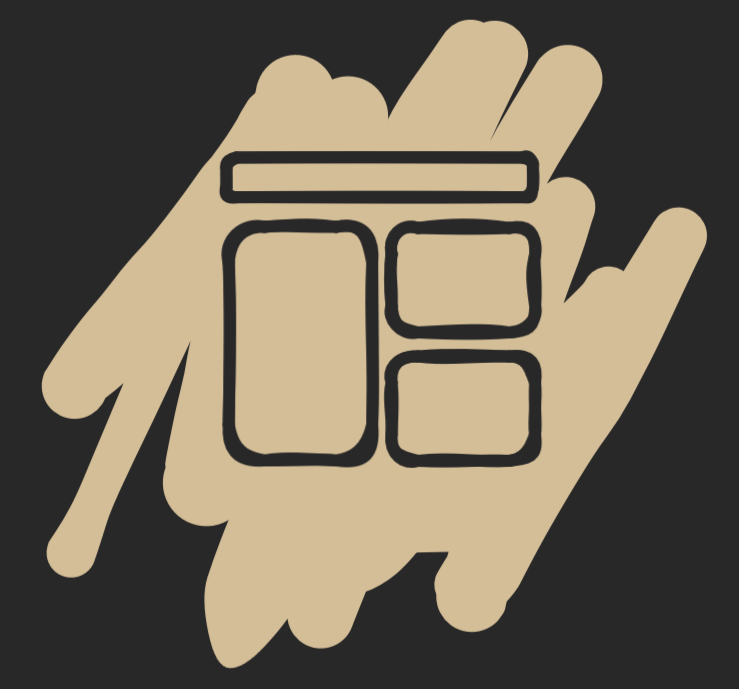
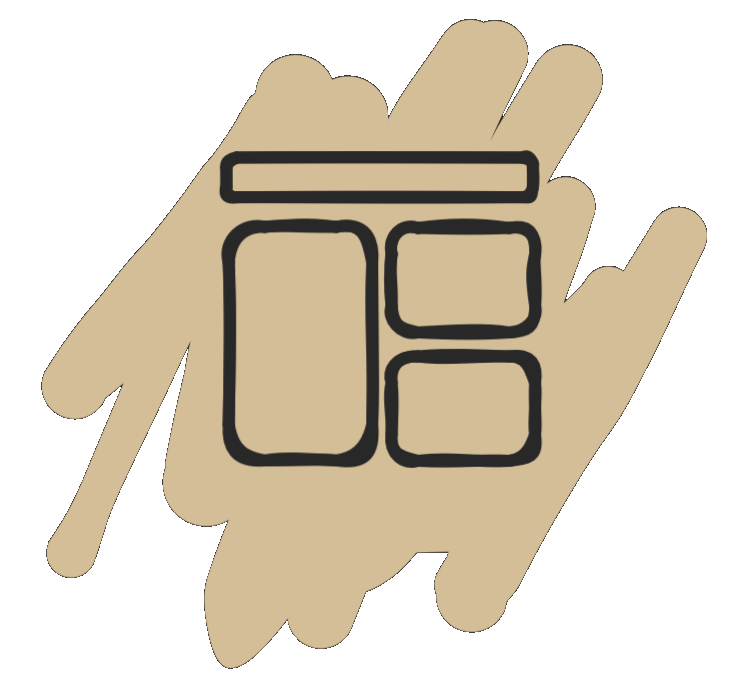
Use the Ochre palette across the whole site
Drop the Gruvbox theme so the homepage and blog match the CV. Links and blog
headings use foot's magenta, code highlighting uses foot's ANSI colours, and
the tiling WM post image gets a transparent background instead of Gruvbox's
dark grey. Fonts are unchanged.

diff --git a/src/styles/prism.css b/src/styles/prism.css
@@ -1,46 +1,47 @@
 /*
- * Gruvbox colours for code blocks. Prism (the syntax highlighter) wraps each
- * piece of code in a <span class="token keyword">, <span class="token string">,
- * etc.; these rules colour them.
+ * Code block colours, from the ANSI colours of the Ochre palette in
+ * ~/.config/foot/foot.ini. Prism (the syntax highlighter) wraps each piece of
+ * code in a <span class="token keyword">, <span class="token string">, etc.;
+ * these rules colour them.
  */
 .token.comment,
 .token.prolog,
 .token.doctype,
 .token.cdata {
-  color: #928374;
+  color: #8a6a3e; /* bright0 */
   font-style: italic;
 }
 
 .token.keyword,
-.token.operator,
-.token.important {
-  color: #fe8019;
+.token.important,
+.token.tag,
+.token.selector {
+  color: #a3243a; /* regular1, red */
+}
+
+.token.operator {
+  color: #6b3a10; /* bright3 */
 }
 
 .token.string,
 .token.char,
 .token.attr-value {
-  color: #b8bb26;
+  color: #3f6a2a; /* regular2, green */
 }
 
 .token.number,
 .token.boolean,
 .token.constant {
-  color: #d3869b;
+  color: #7a2d5c; /* regular5, magenta */
 }
 
 .token.function,
 .token.builtin,
 .token.class-name {
-  color: #fabd2f;
+  color: #2b4f7a; /* regular4, blue */
 }
 
 .token.variable,
 .token.parameter {
-  color: #83a598;
-}
-
-.token.tag,
-.token.selector {
-  color: #fb4934;
+  color: #2f6560; /* regular6, cyan */
 }

diff --git a/src/styles/global.css b/src/styles/global.css
@@ -4,32 +4,19 @@
  */
 
 /*
- * Colour themes. Every colour on the site comes from these variables, so
- * changing a palette means editing one block. The Base layout puts
- * data-theme="..." on <html>, which picks the block that applies.
+ * Colours: the "Ochre" palette from ~/.config/foot/foot.ini. Every colour on
+ * the site comes from these variables, so changing the palette means editing
+ * only this block.
  */
-[data-theme="gruvbox"] {
-  --bg: #282828;
-  --fg: #d4be98;
-  --muted: #a89984;
-  --surface: #32302f;
-  --link: #af99bf;
-  --accent: #a9b665;
-  --font-body: "Comic Neue", sans-serif;
-}
-
-/* "Ochre" palette, matching ~/.config/foot/foot.ini */
-[data-theme="ochre"] {
+:root {
   --bg: #eedfbb;
   --fg: #2e1f10;
   --muted: #574128; /* darkened from foot's #6a5232 for readability */
   --surface: #e5d2a6;
-  --link: #2e1f10;
-  --accent: #3f6a2a;
-  --font-body: Inter, system-ui, sans-serif;
-}
+  --link: #7a2d5c; /* foot regular5, "madder ink" */
+  --accent: #3f6a2a; /* foot regular2, green */
 
-:root {
+  --font-body: "Comic Neue", sans-serif;
   --font-mono: ui-monospace, "SF Mono", Menlo, Consolas, monospace;
 }
 
